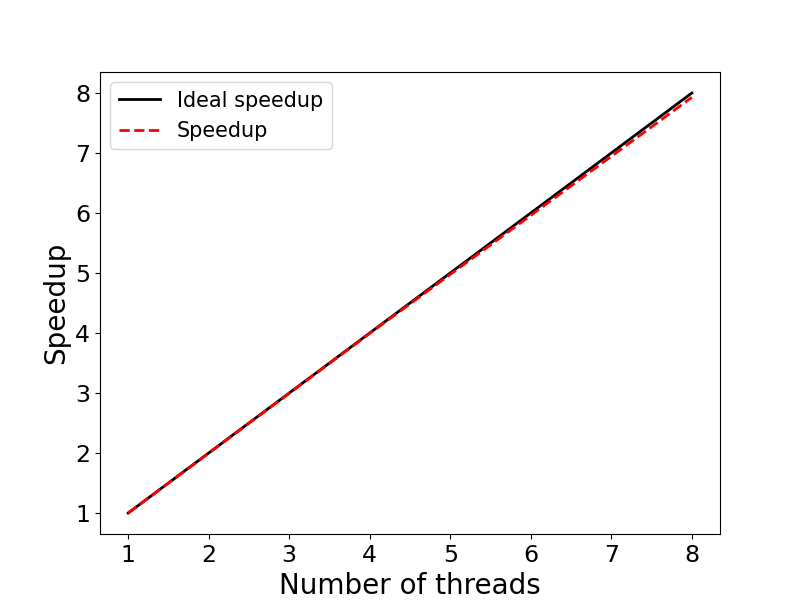
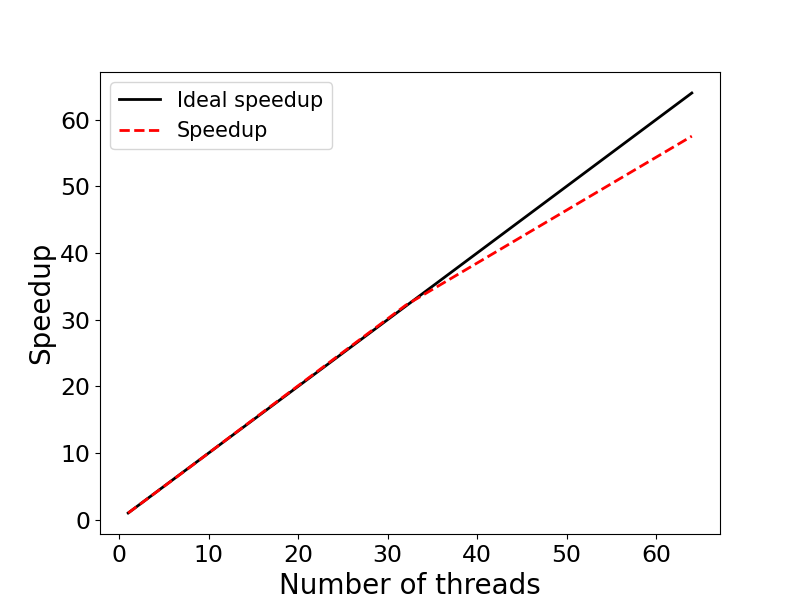
Updated training examples

diff --git a/Training/Advanced_Cluster_Usage/Exercise3/C/speedup.py b/Training/Advanced_Cluster_Usage/Exercise3/C/speedup.py
@@ -1,7 +1,7 @@
 """
 Program: speedup.py
          Code generates speedup plot
-         for nthreads = [1, 2, 4 ,8]
+         for nthreads = [1, 2, 4 ,8, 16, 32, 64]
 """
 import numpy as np
 import matplotlib.pyplot as plt

diff --git a/Training/Advanced_Cluster_Usage/Exercise3/C/README.md b/Training/Advanced_Cluster_Usage/Exercise3/C/README.md
@@ -2,15 +2,15 @@
 
 This example illustrates evaluating the speedup of parallel applications. 
 The specific example is an OpenMP (OMP) implementation of a Monte-Carlo algorithm for 
-calculating $\pi$ in parallel. The program is run on 1, 2, 4, 8, 16, and 32 OMP threads, 
-and then we create a speedup figure.
+calculating $\pi$ in parallel. We will run the program on 1, 2, 4, 8, 16, 32, and 64
+OMP threads, calculate the speedup and create a speedup figure.
 
 ## Contents:
 
 * <code>omp_pi.c</code>: C source code
-* <code>omp_pi.dat</code>: Output file
 * <code>Makefile</code>: Makefile to compile the code
 * <code>run.sbatch</code>: Batch-job submission script
+* <code>scaling_results.txt</code>: Scaling results / Timing
 * <code>speedup.py</code>: Python code to generate speedup figure
 * <code>speedup.png</code>: Speedup figure
 
@@ -20,7 +20,7 @@ The code is compiled with
 
 ```bash
 module load intel/24.2.1-fasrc01	# Load required software modules
-make             			# Compile
+make             			        # Compile
 ```
 using the `Makefile`:
 
@@ -101,7 +101,7 @@ int main (int argc, char *argv[]) {
 ### Step 2: Create a job submission script 
 
 Below is an example batch-job submission script for this exercise. Use this
-script to run the job with 1, 2, 4, 8, 16, and 32 OMP threads. 
+script to run the program with 1, 2, 4, 8, 16, 32, and 64 OMP threads. 
 
 ```bash
 #!/bin/bash
@@ -123,17 +123,6 @@ unset OMP_NUM_THREADS
 # --- Run program with 1, 2, 4, 8, 16, and 32 OpenMP threads ---
 echo "Number of threads: ${i}"
 ./${PRO}.x 1000000000 ${SLURM_CPUS_PER_TASK} > ${PRO}.dat
-```
-
-> **NOTE:** To generate the scaling figure, you will need to load a Python 
-module and activate a `conda` environment, e.g., `python-3.10_env`, 
-(see below) containing the `numpy` and `matplotlib` packages.
-
-Below is an example `conda` environment, e.g.,
-
-```bash
-module load python/3.10.13-fasrc01
-mamba create -n python-3.10_env python=3.10 pip wheel numpy scipy matplotlib pandas seaborn h5py
 ```
 
 ### Step 3: Submit the Job
@@ -159,7 +148,7 @@ JobID           JobName  Partition    Account  AllocCPUS      State ExitCode
 6282602.ext+     extern              rc_admin          4  COMPLETED      0:0
 ```
 
-and output:  
+and output with. e.g.,
 
 ```bash
 cat *.dat
@@ -171,19 +160,29 @@ Time:    2.74 sec.
 
 ### Step 5: Speedup figure
 
-For each run, record the runtime in a file, e.g., `scaling_results.txt`.
+For each run, we record the runtime in a file, e.g., `scaling_results.txt`. An example is given below:
 
-The job uses a Python code ,`speedup.py`, and the `scaling_results.txt` file, 
-to generate the speedup figure `speedup.png`:
+```bash
+cat scaling_results.txt 
+ 1 10.93
+ 2 5.47
+ 4 2.74
+ 8 1.37
+16 0.68
+32 0.34
+64 0.19
+```
+
+This file is used by a Python code, `speedup.py`, to generate the speedup figure `speedup.png`:
 
 ![Speedup](speedup.png)
 
-We see that the program displays an excellent strong scaling up to 8 OMP threads.
+We see that the program displays an excellent strong scaling up to 16 OMP threads.
 
-Below is the Python code used to calculate the speedup and generate the speedup
-figure.
+Below we include the Python code used to calculate the speedup and generate the speedup
+figure, and also an example submission script to send the figure-generating job to the queue.
 
-### Python source code
+**Python source code:**
 
 ```python
 """
@@ -231,4 +230,54 @@ plt.legend(fontsize=15,loc=2)
 plt.savefig('speedup.png', format='png')
 ```
 
+> **NOTE:** To generate the scaling figure, you will need to load a Python 
+module and activate a `conda` environment, e.g., `python-3.10_env`, 
+(see below) containing the `numpy` and `matplotlib` packages.
 
+Below is an example `conda` environment, e.g.,
+
+```bash
+module load python/3.10.13-fasrc01
+mamba create -n python-3.10_env python=3.10 pip wheel numpy scipy matplotlib pandas seaborn h5py
+```
+
+**Submission script for the figure-generating job:**
+
+```bash
+#!/bin/bash
+#SBATCH -J speedup
+#SBATCH -o speedup.out
+#SBATCH -e speedup.err
+#SBATCH -t 0-00:30
+#SBATCH -p test
+#SBATCH -c 1
+#SBATCH --mem=4G
+
+# --- Set up environment ---
+module load python/3.10.13-fasrc01
+source activate python-3.10_env
+
+# --- Run the python code speedup.py ---
+python speedup.py
+```
+
+If we name the above script `run_speedup.sbatch`, for instance, the job is submitted to the queue as usual with:
+
+```bash
+sbatch run_speedup.sbatch
+```
+In addition to the speedup, the python code computes also the parallel efficiency $E(n)=S(n)/n$, which measures how efficiently you parallelize your code. Here $S(n)=T(1)/T(n)$ is the speedup, $n$ is the number of parallel processes (threads), $T(1)$ is the time to complete the program on one thread, and $T(n)$ is the time to complete the program on $n$ threads. 
+
+Table with the results is given below:
+
+```bash
+cat speedup.out 
+    Nthreads  Walltime  Speedup  Efficiency (%)
+       1       10.93     1.00      100.00
+       2        5.47     2.00       99.91
+       4        2.74     3.99       99.73
+       8        1.37     7.98       99.73
+      16        0.68    16.07      100.46
+      32        0.34    32.15      100.46
+      64        0.19    57.53       89.88
+```

diff --git a/Training/Advanced_Cluster_Usage/README.md b/Training/Advanced_Cluster_Usage/README.md
@@ -1,7 +1,8 @@
 # Advanced Cluster Usage
 
 * [Exercise 1](./Exercise1/): Memory Efficiency per Node
-* [Exercise 2](./Exercise2/): Memory Efficiency per Task (Core)
-* [Exercise 3](./Exercise3/): OpenMP scaling illustration - Parallel Monte Carlo 
-calculation of $\pi$
-* [Exercise 4](./Exercise4/): MPI scaling - Parallel Monte Carlo calculation of $\pi$
+* [Exercise 2](./Exercise2/): Memory Efficiency per CPU / core
+* [Exercise 3](./Exercise3/): Scaling illustration - Parallel Monte Carlo calculation 
+of $\pi$
+* [Exercise 4](./Exercise4/): Scaling illustration - Parallel Monte Carlo calculation
+of $\pi$ (MPI implementation)
